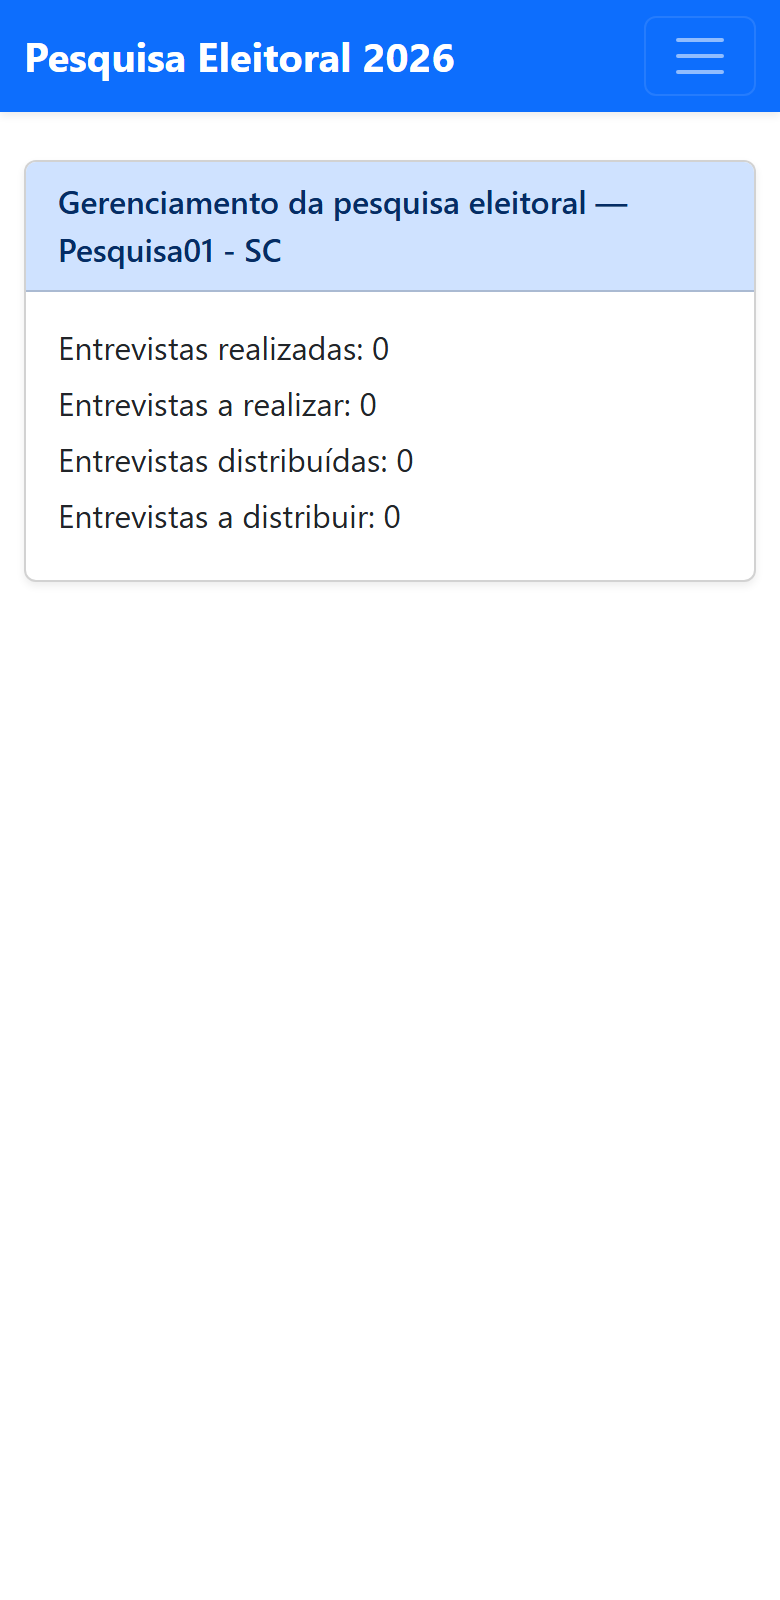
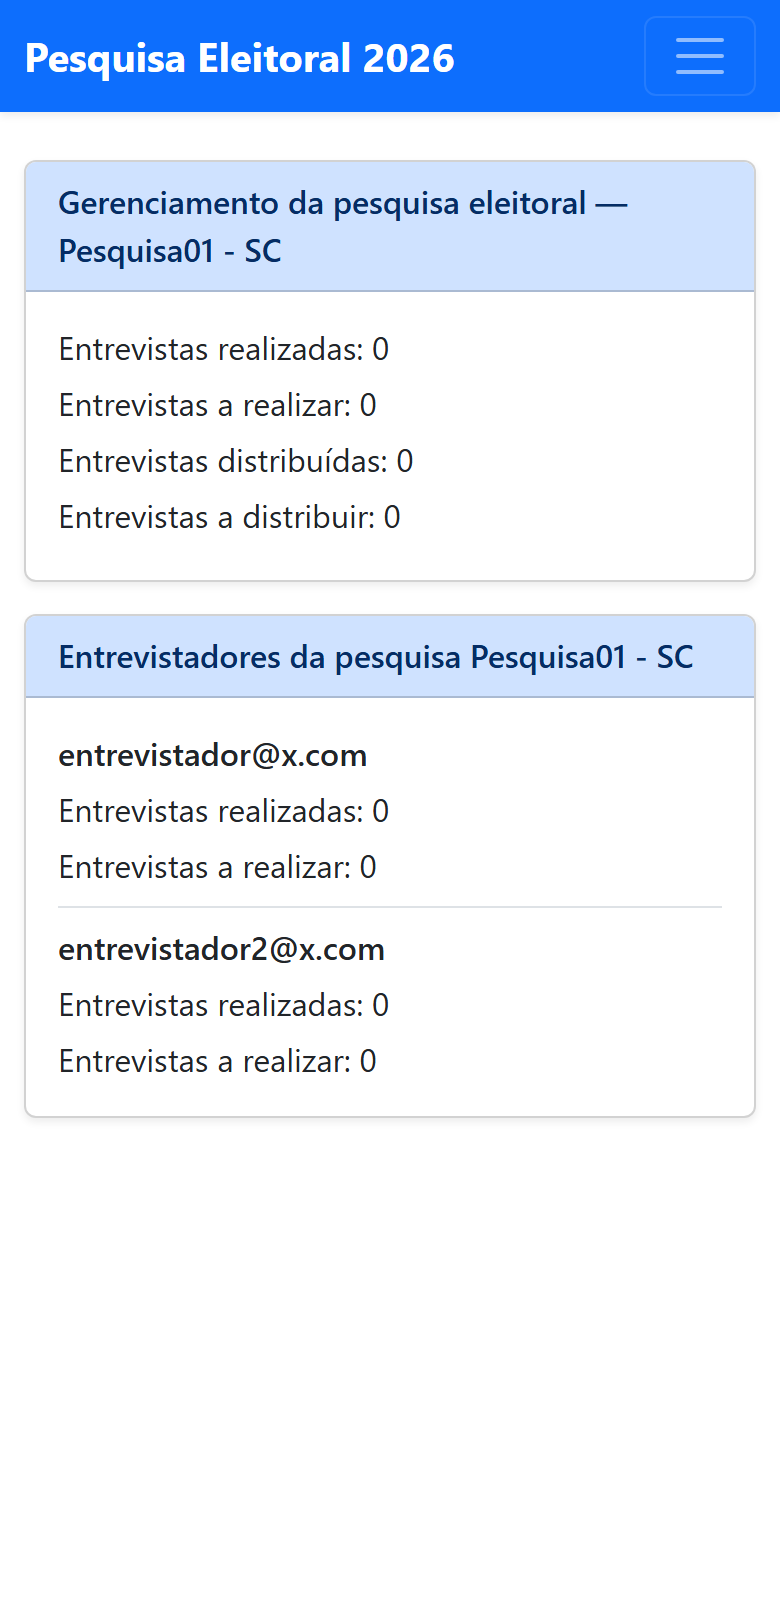
docs(guia): remove Metodologia, adiciona Instalar aplicativo + card de entrevistadores; corrige regra remocao != desabilitacao; recaptura 07/08

Changed region(s): [[0.0615, 0.4688, 0.4923, 0.6875], [0.0308, 0.375, 0.9846, 0.4375], [0.4615, 0.6562, 0.4923, 0.6875]]

diff --git a/05-boas-vindas-gestao.html b/05-boas-vindas-gestao.html
@@ -27,6 +27,7 @@
   <li><strong>Gerenciar mais de uma pesquisa</strong> — criar e alternar entre pesquisas (<a href="13-multiplas-pesquisas.html">§13</a>);</li>
   <li><strong>Registrar código de desconto</strong> — informar um código para obter desconto na aquisição;</li>
   <li><strong>Editar dados do(a) coordenador(a) de pesquisa</strong> — seus dados e senha (<a href="02-acesso.html">§2.5</a>);</li>
+  <li><strong>Instalar aplicativo</strong> — cria um atalho do app na tela inicial do seu dispositivo, para abri-lo como um aplicativo (disponível quando ele for publicado no formato PWA);</li>
   <li><strong>Sair</strong>.</li>
 </ul>
 <aside class="warn">
@@ -54,8 +55,9 @@ pesquisa — é o centro de tudo. Dele partem todas as ações:</p>
   <li><strong>a distribuir</strong> — ainda não repartidas.</li>
 </ul>
 <p>Se a pesquisa tiver <strong>segmentos</strong>, um segundo cartão mostra esses mesmos números
-<strong>para cada segmento</strong>. Há também um cartão de <strong>entrevistadores</strong>, com
-quantas entrevistas cada um já realizou.</p>
+<strong>para cada segmento</strong>. Há também o cartão <strong>“Entrevistadores da pesquisa”</strong>,
+que lista os entrevistadores cadastrados e, para cada um, quantas entrevistas ele
+<strong>já realizou</strong> e quantas ainda tem <strong>a realizar</strong>.</p>
 
 <h3>As ações do menu</h3>
 <p>No topo do painel, o menu reúne as ações (cada uma detalhada adiante):</p>
@@ -67,7 +69,6 @@ quantas entrevistas cada um já realizou.</p>
   <li><strong>Distribuir entrevistas</strong> (<a href="09-distribuir.html">§9</a>);</li>
   <li><strong>Configurar pesquisa</strong> (<a href="10-configurar.html">§10</a>);</li>
   <li><strong>Autorizar início da pesquisa</strong> e <strong>Iniciar entrevista</strong> (<a href="11-autorizar-iniciar.html">§11</a>);</li>
-  <li><strong>Metodologia</strong>;</li>
   <li><strong>Gerenciar outra pesquisa</strong> / <strong>Criar nova pesquisa</strong> (<a href="13-multiplas-pesquisas.html">§13</a>);</li>
   <li><strong>Voltar</strong> e <strong>Sair</strong>.</li>
 </ul>

diff --git a/09-distribuir.html b/09-distribuir.html
@@ -42,9 +42,10 @@ entrevistador — você pode distribuir mais vezes ao longo do trabalho.</blockq
   pacotes depois, poderá distribuir novamente.</p>
 </aside>
 
-<blockquote>Precisa tirar entrevistas de um entrevistador? Ao <strong>remover</strong> ou
-<strong>desabilitar</strong> pela tela de cadastro (<a href="08-entrevistadores.html">§8</a>), o
-saldo ainda não realizado volta para o “a distribuir” do segmento.</blockquote>
+<blockquote>Precisa tirar entrevistas de um entrevistador? Ao <strong>remover</strong> pela tela de
+cadastro (<a href="08-entrevistadores.html">§8</a>), o saldo ainda não realizado volta para o
+“a distribuir” do segmento. <strong>Desabilitar</strong> não devolve o saldo — o vínculo (e a cota
+já atribuída) permanecem com o entrevistador até que ele seja habilitado de novo.</blockquote>
 
 <nav class="pager">
   <a class="prev" href="08-entrevistadores.html">‹ Anterior: Entrevistadores</a>

diff --git a/14-regras-prazos.html b/14-regras-prazos.html
@@ -58,7 +58,7 @@ guia; aqui elas estão reunidas.</p>
 </ul>
 
 <h2>14.5 Orientações de metodologia</h2>
-<p>O item <strong>Metodologia</strong> (no menu) lembra boas práticas da pesquisa:</p>
+<p>Algumas <strong>boas práticas</strong> a ter em mente ao planejar e conduzir a pesquisa:</p>
 <ul>
   <li>distribuir as entrevistas <strong>proporcionalmente</strong> aos eleitores de cada
   município/estado;</li>